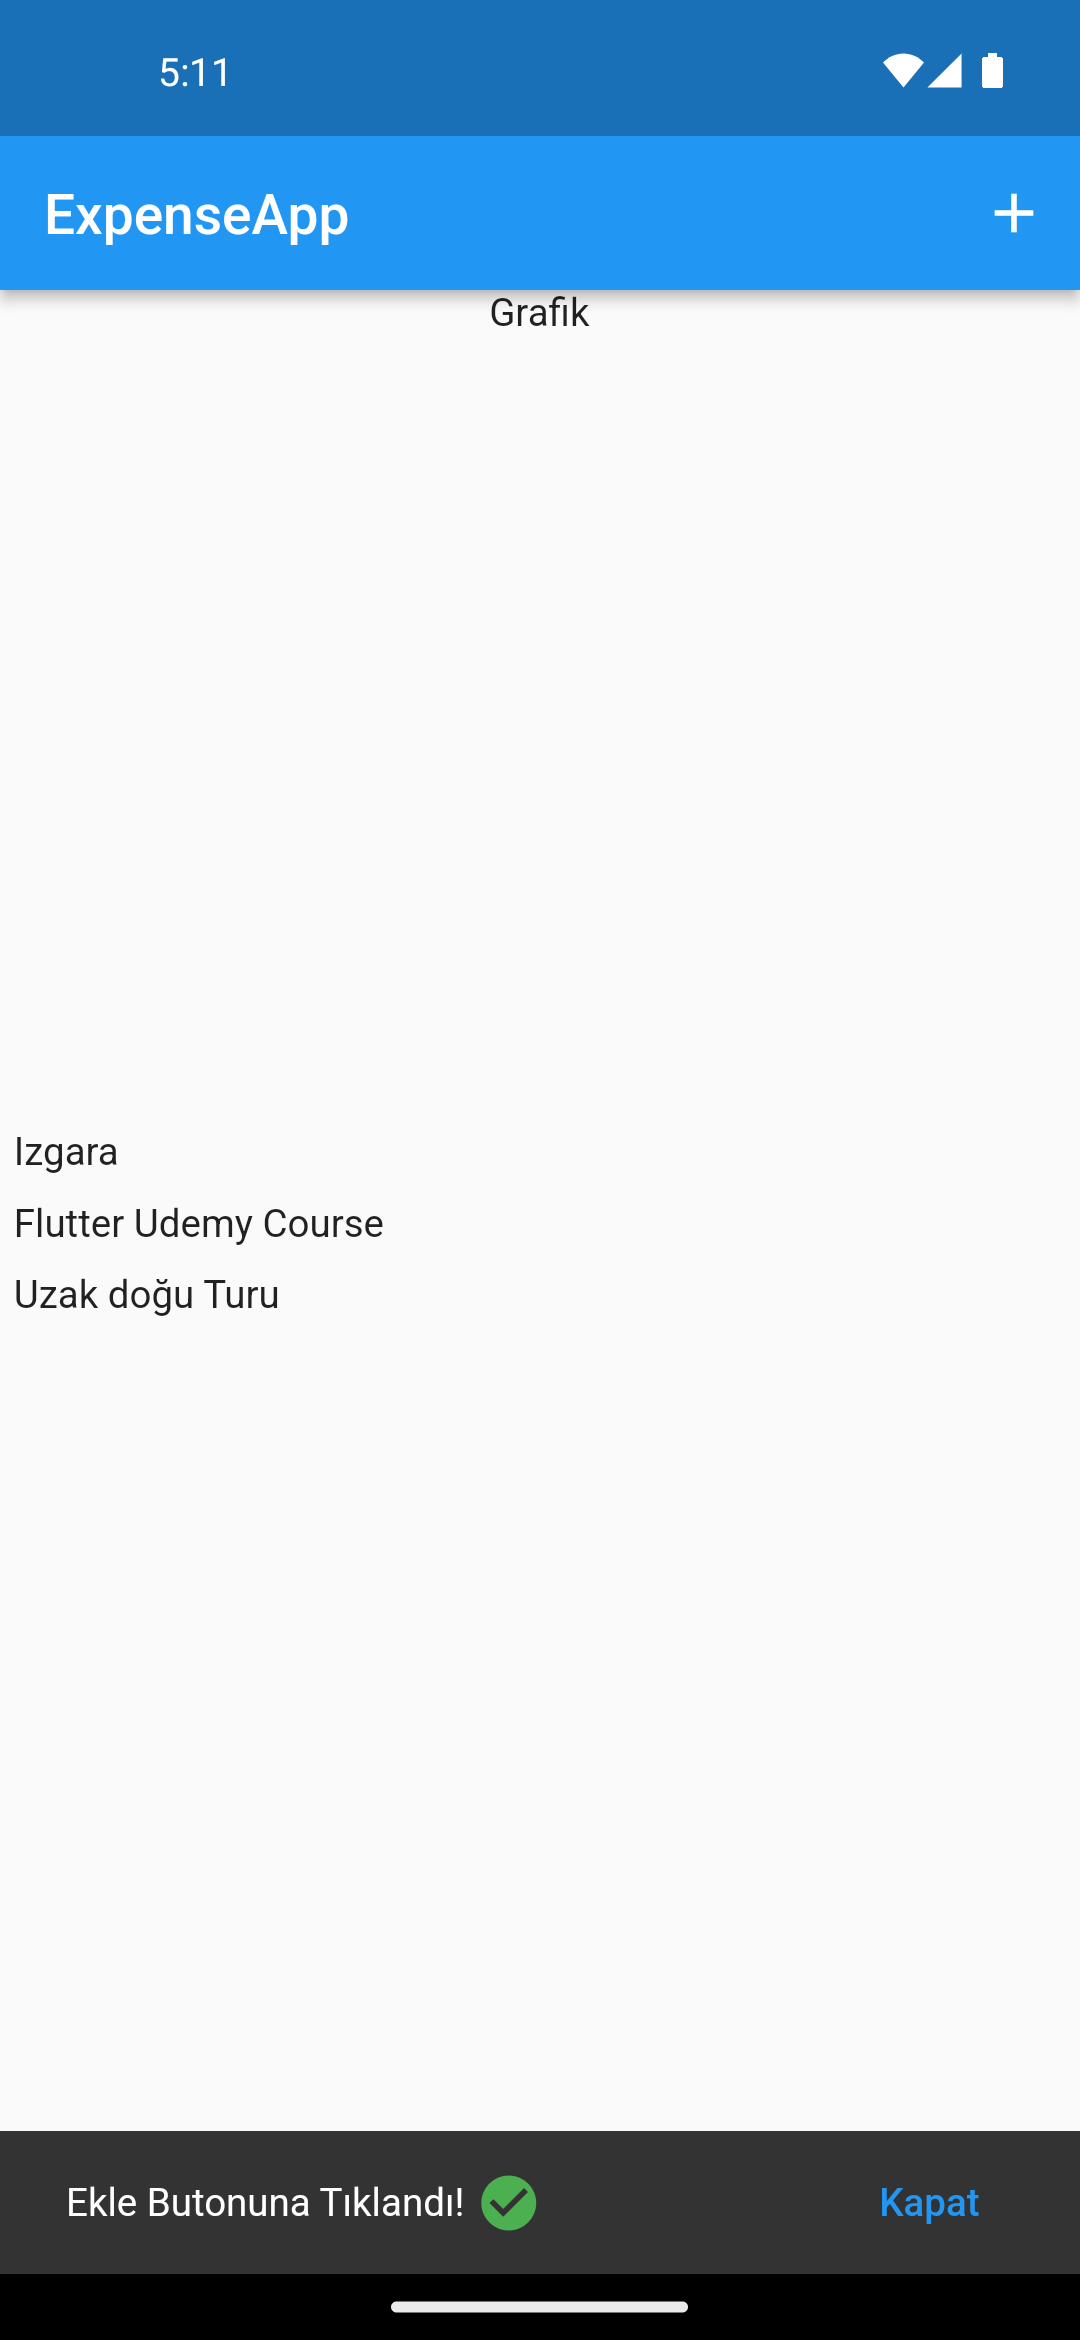
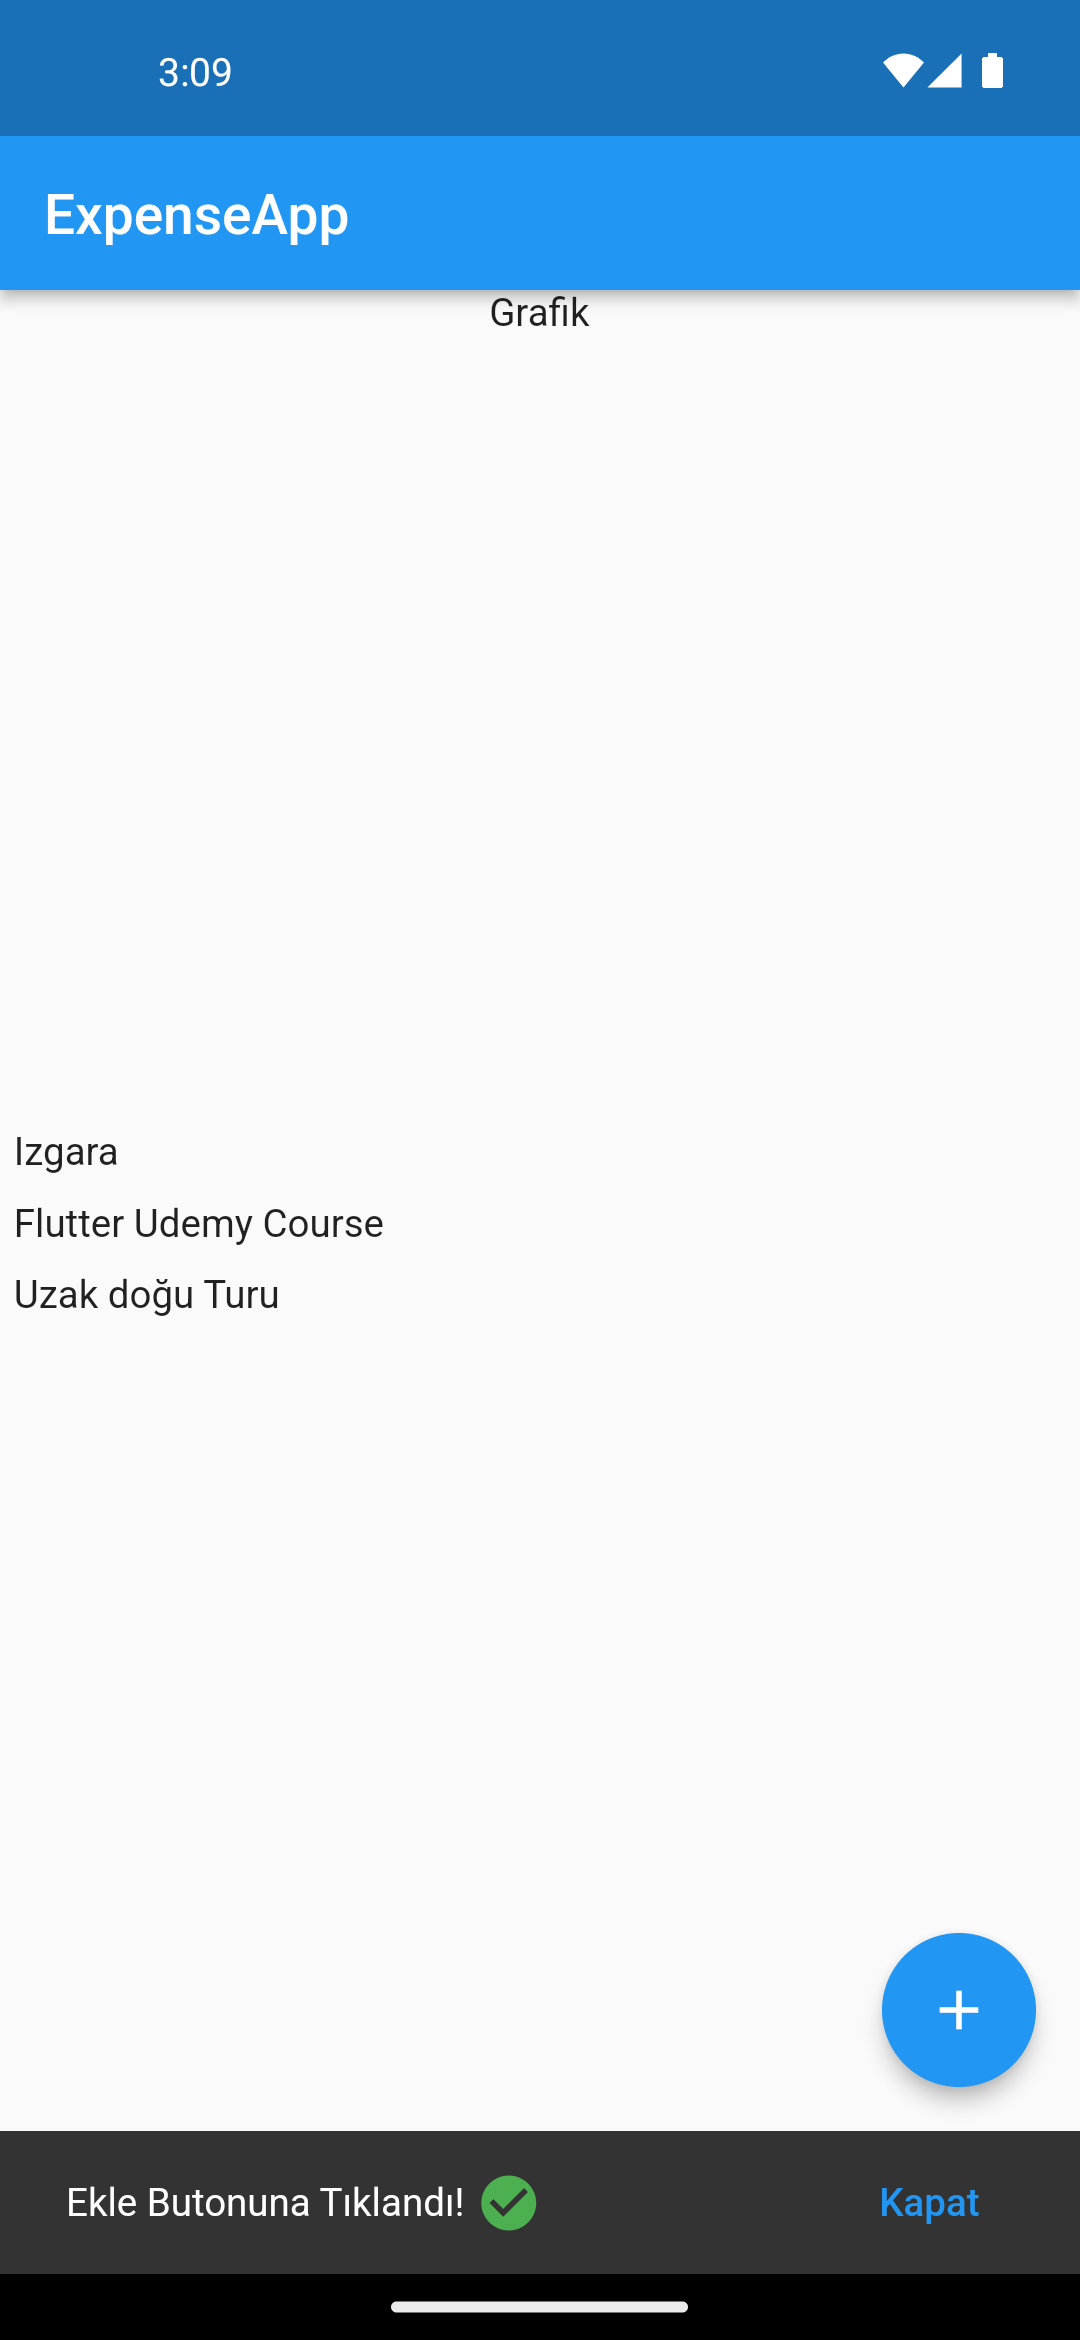
09.11.2023

Changed region(s): [[0.7944, 0.8111, 0.9778, 0.9047], [0.9167, 0.0624, 0.9472, 0.0936], [0.1833, 0.0, 0.2139, 0.0312]]

diff --git a/lib/main.dart b/lib/main.dart
@@ -1,9 +1,7 @@
-// Bu dosya, ana uygulama giriş noktasını içerir ve ExpenseApp widget'ını başlatır.
 import 'package:expenseapp/pages/expense_list.dart';
 import 'package:flutter/material.dart';
 
 void main() {
-  // Uygulamayı başlatan main fonksiyonu
   runApp(
     const MaterialApp(
       debugShowCheckedModeBanner: false,
@@ -12,31 +10,26 @@ void main() {
   );
 }
 
-
 class ExpenseApp extends StatelessWidget {
   const ExpenseApp({Key? key}) : super(key: key);
 
   @override
   Widget build(BuildContext context) {
-    // Ana uygulama widget'ı olan ExpenseApp'i oluşturan build fonksiyonu
     return Scaffold(
       appBar: AppBar(
-        title: const Text('ExpenseApp'), // Uygulama başlığı
-        actions: [
-          IconButton(
-            icon: const Icon(Icons.add),
-            onPressed: () {
-              showSnackBar(context);
-            },
-          ),
-        ],
+        title: const Text('ExpenseApp'),
       ),
-      body: ExpenseList(), // Ana içerik olarak ExpenseList widget'ını kullanır
+      body: ExpenseList(),
+      floatingActionButton: FloatingActionButton(
+        onPressed: () {
+          showSnackBar(context);
+        },
+        child: const Icon(Icons.add),
+      ),
     );
   }
 
   void showSnackBar(BuildContext context) {
-    // SnackBar'ı gösteren fonksiyon
     final snackBar = SnackBar(
       content: Row(
         children: [
@@ -55,6 +48,6 @@ class ExpenseApp extends StatelessWidget {
       ),
     );
 
-    ScaffoldMessenger.of(context).showSnackBar(snackBar); // SnackBar'ı görüntüler
+    ScaffoldMessenger.of(context).showSnackBar(snackBar);
   }
 }
